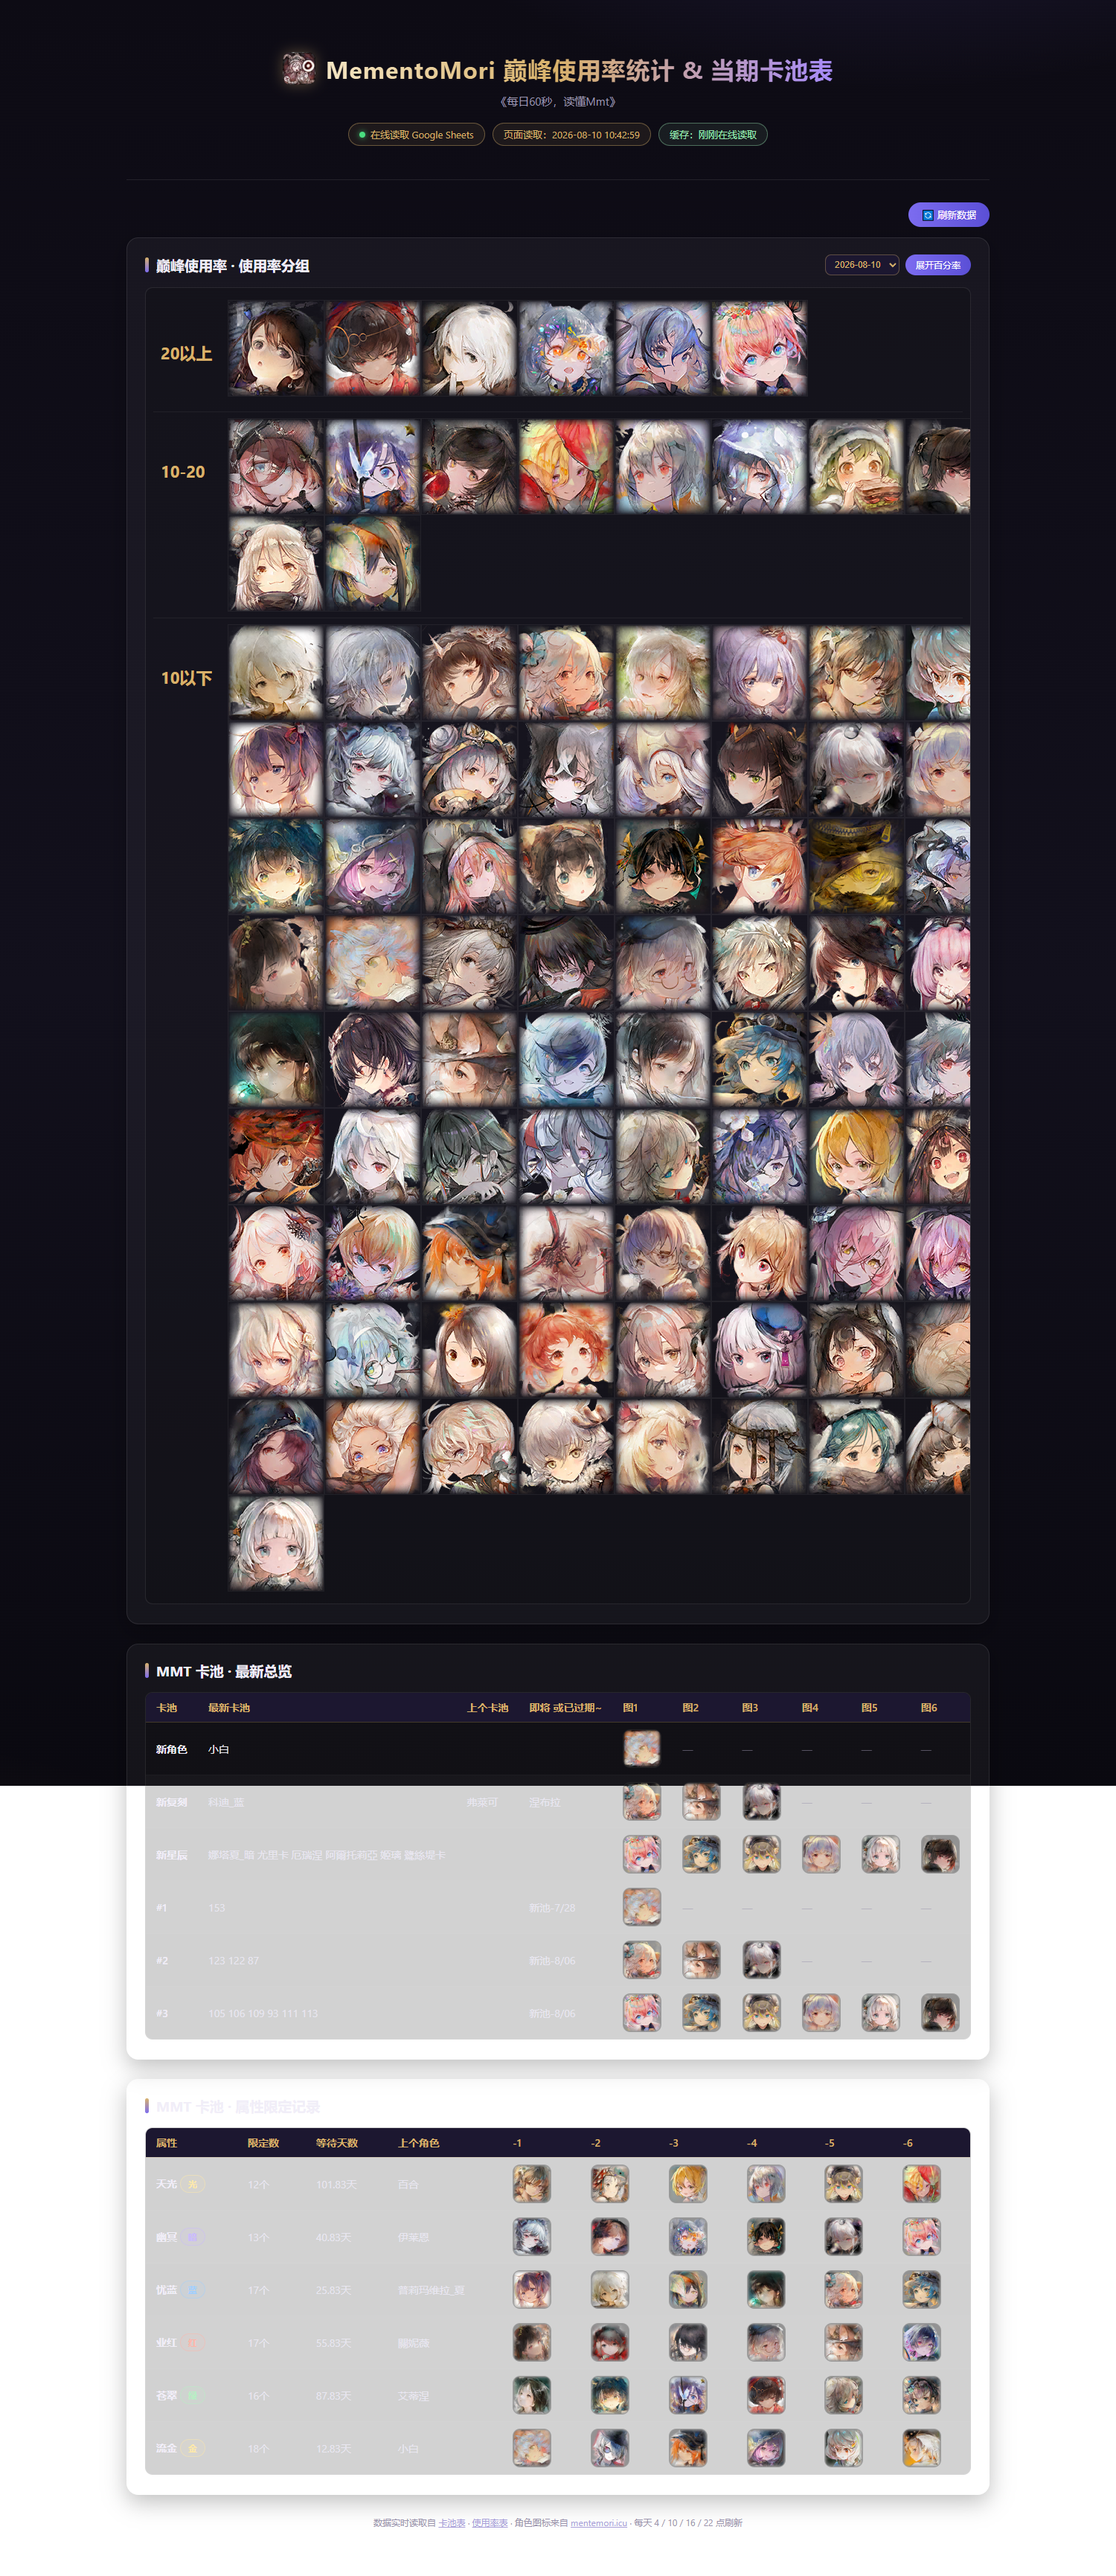
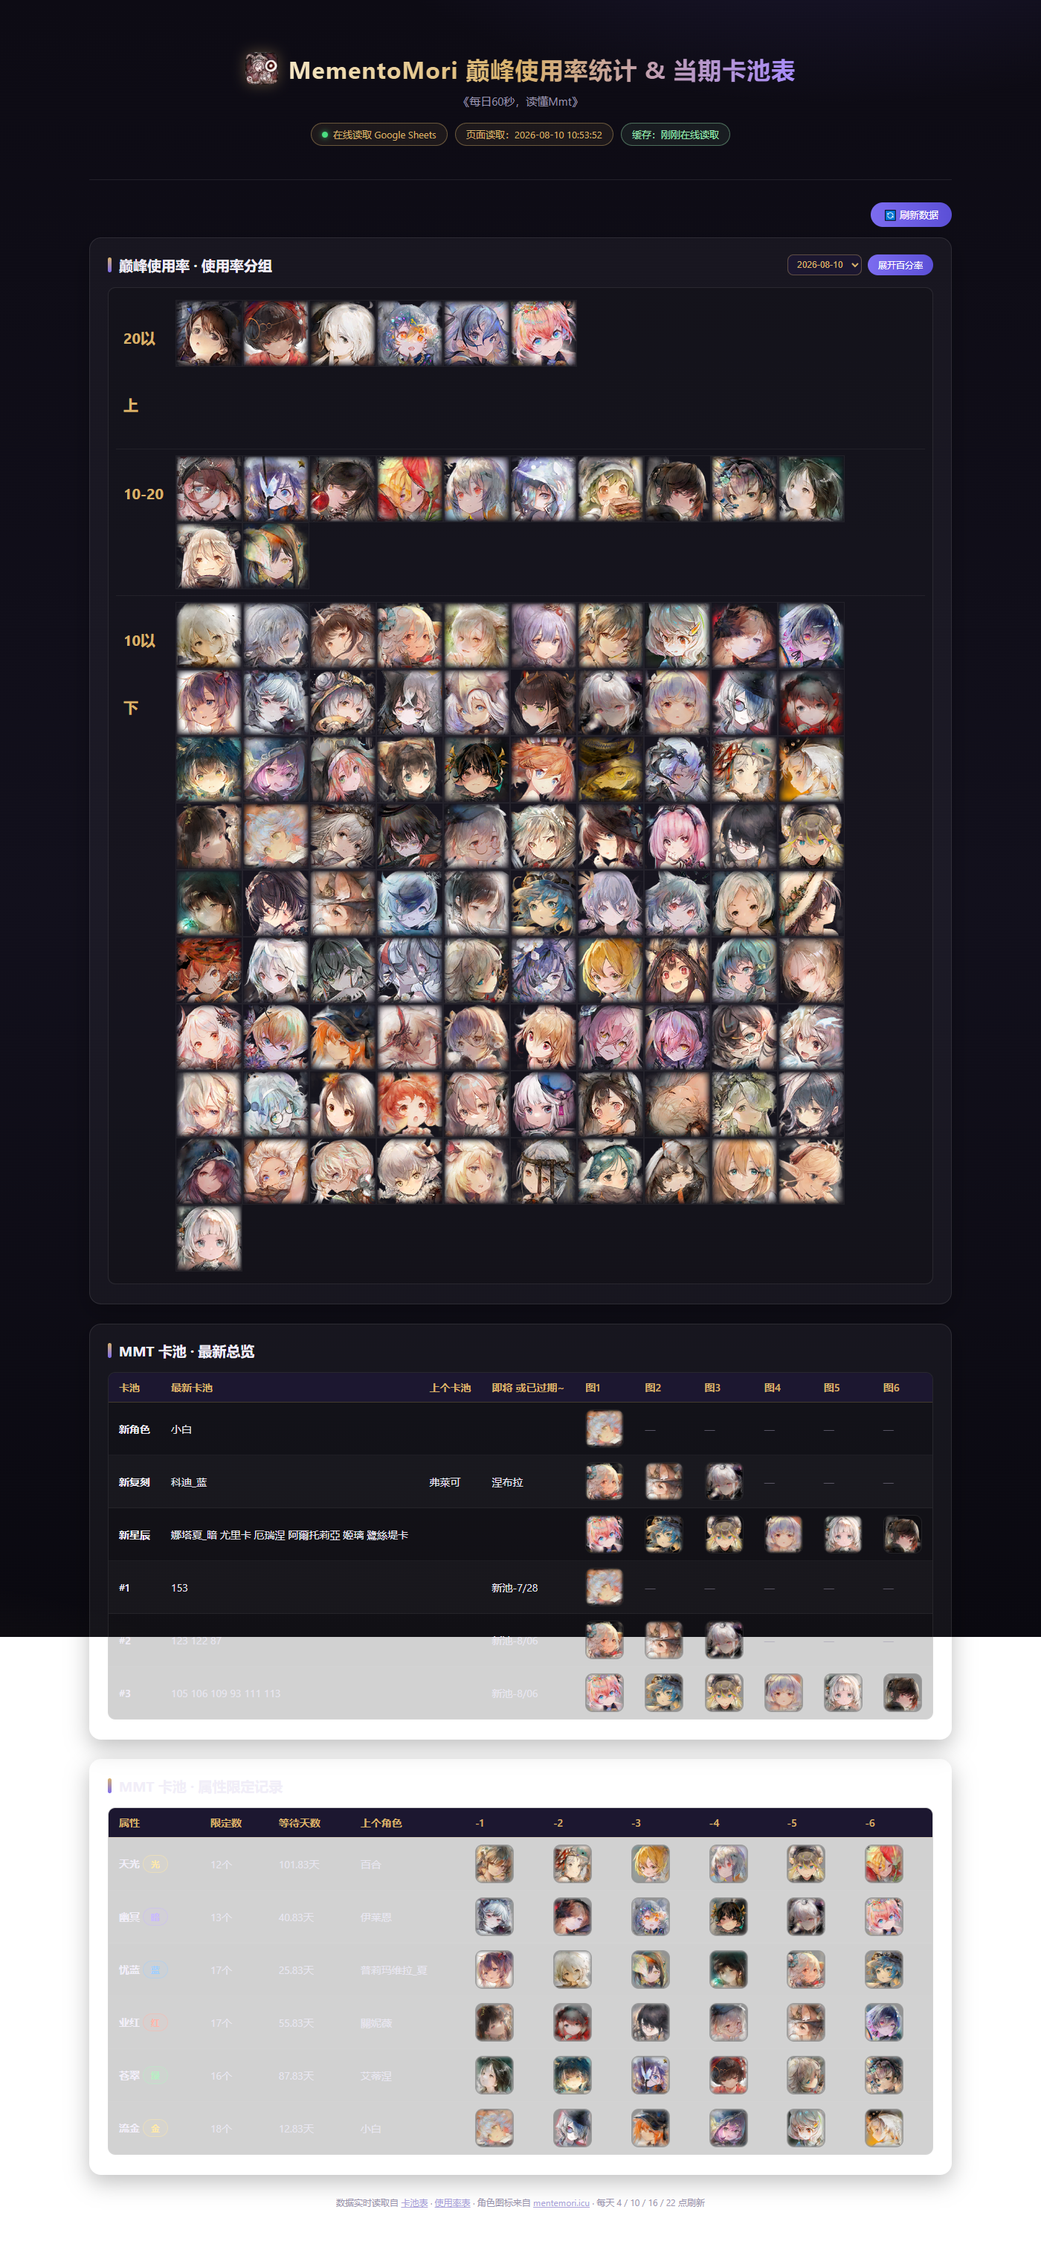
使用率图标尺寸调为90px

diff --git a/index.html b/index.html
@@ -173,11 +173,11 @@ tbody tr:last-child td{border-bottom:none}
 .usage-wrap{padding:8px 10px}
 .grp{display:flex;align-items:flex-start;border-bottom:1px solid rgba(255,255,255,.06)}
 .grp:last-child{border-bottom:none}
-.grp-label{flex:0 0 100px;padding:14px 10px;font-weight:700;color:var(--gold);font-size:22px;line-height:130px}
-.grp .icons{display:flex;flex-wrap:wrap;flex:0 0 1300px;width:1300px;gap:0;padding:8px 0}
-.ic{width:130px;height:130px;position:relative;overflow:hidden;border:1px solid rgba(255,255,255,.06)}
+.grp-label{flex:0 0 80px;padding:14px 10px;font-weight:700;color:var(--gold);font-size:20px;line-height:90px}
+.grp .icons{display:flex;flex-wrap:wrap;flex:0 0 900px;width:900px;gap:0;padding:8px 0}
+.ic{width:90px;height:90px;position:relative;overflow:hidden;border:1px solid rgba(255,255,255,.06)}
 .ic img{width:100%;height:100%;object-fit:cover;display:block}
-.ic .pct{display:none;position:absolute;left:0;right:0;bottom:0;background:rgba(10,8,20,.72);color:#ffe9a8;font-size:20px;line-height:30px;text-align:center}
+.ic .pct{display:none;position:absolute;left:0;right:0;bottom:0;background:rgba(10,8,20,.72);color:#ffe9a8;font-size:13px;line-height:20px;text-align:center}
 .usage-wrap.expanded .ic .pct{display:block}
 .h2-note{display:flex;align-items:center;gap:8px}
 .h2-note select{background:#1c1730;color:var(--gold);border:1px solid rgba(217,178,106,.35);border-radius:8px;padding:5px 8px;font-size:12px;outline:none}
